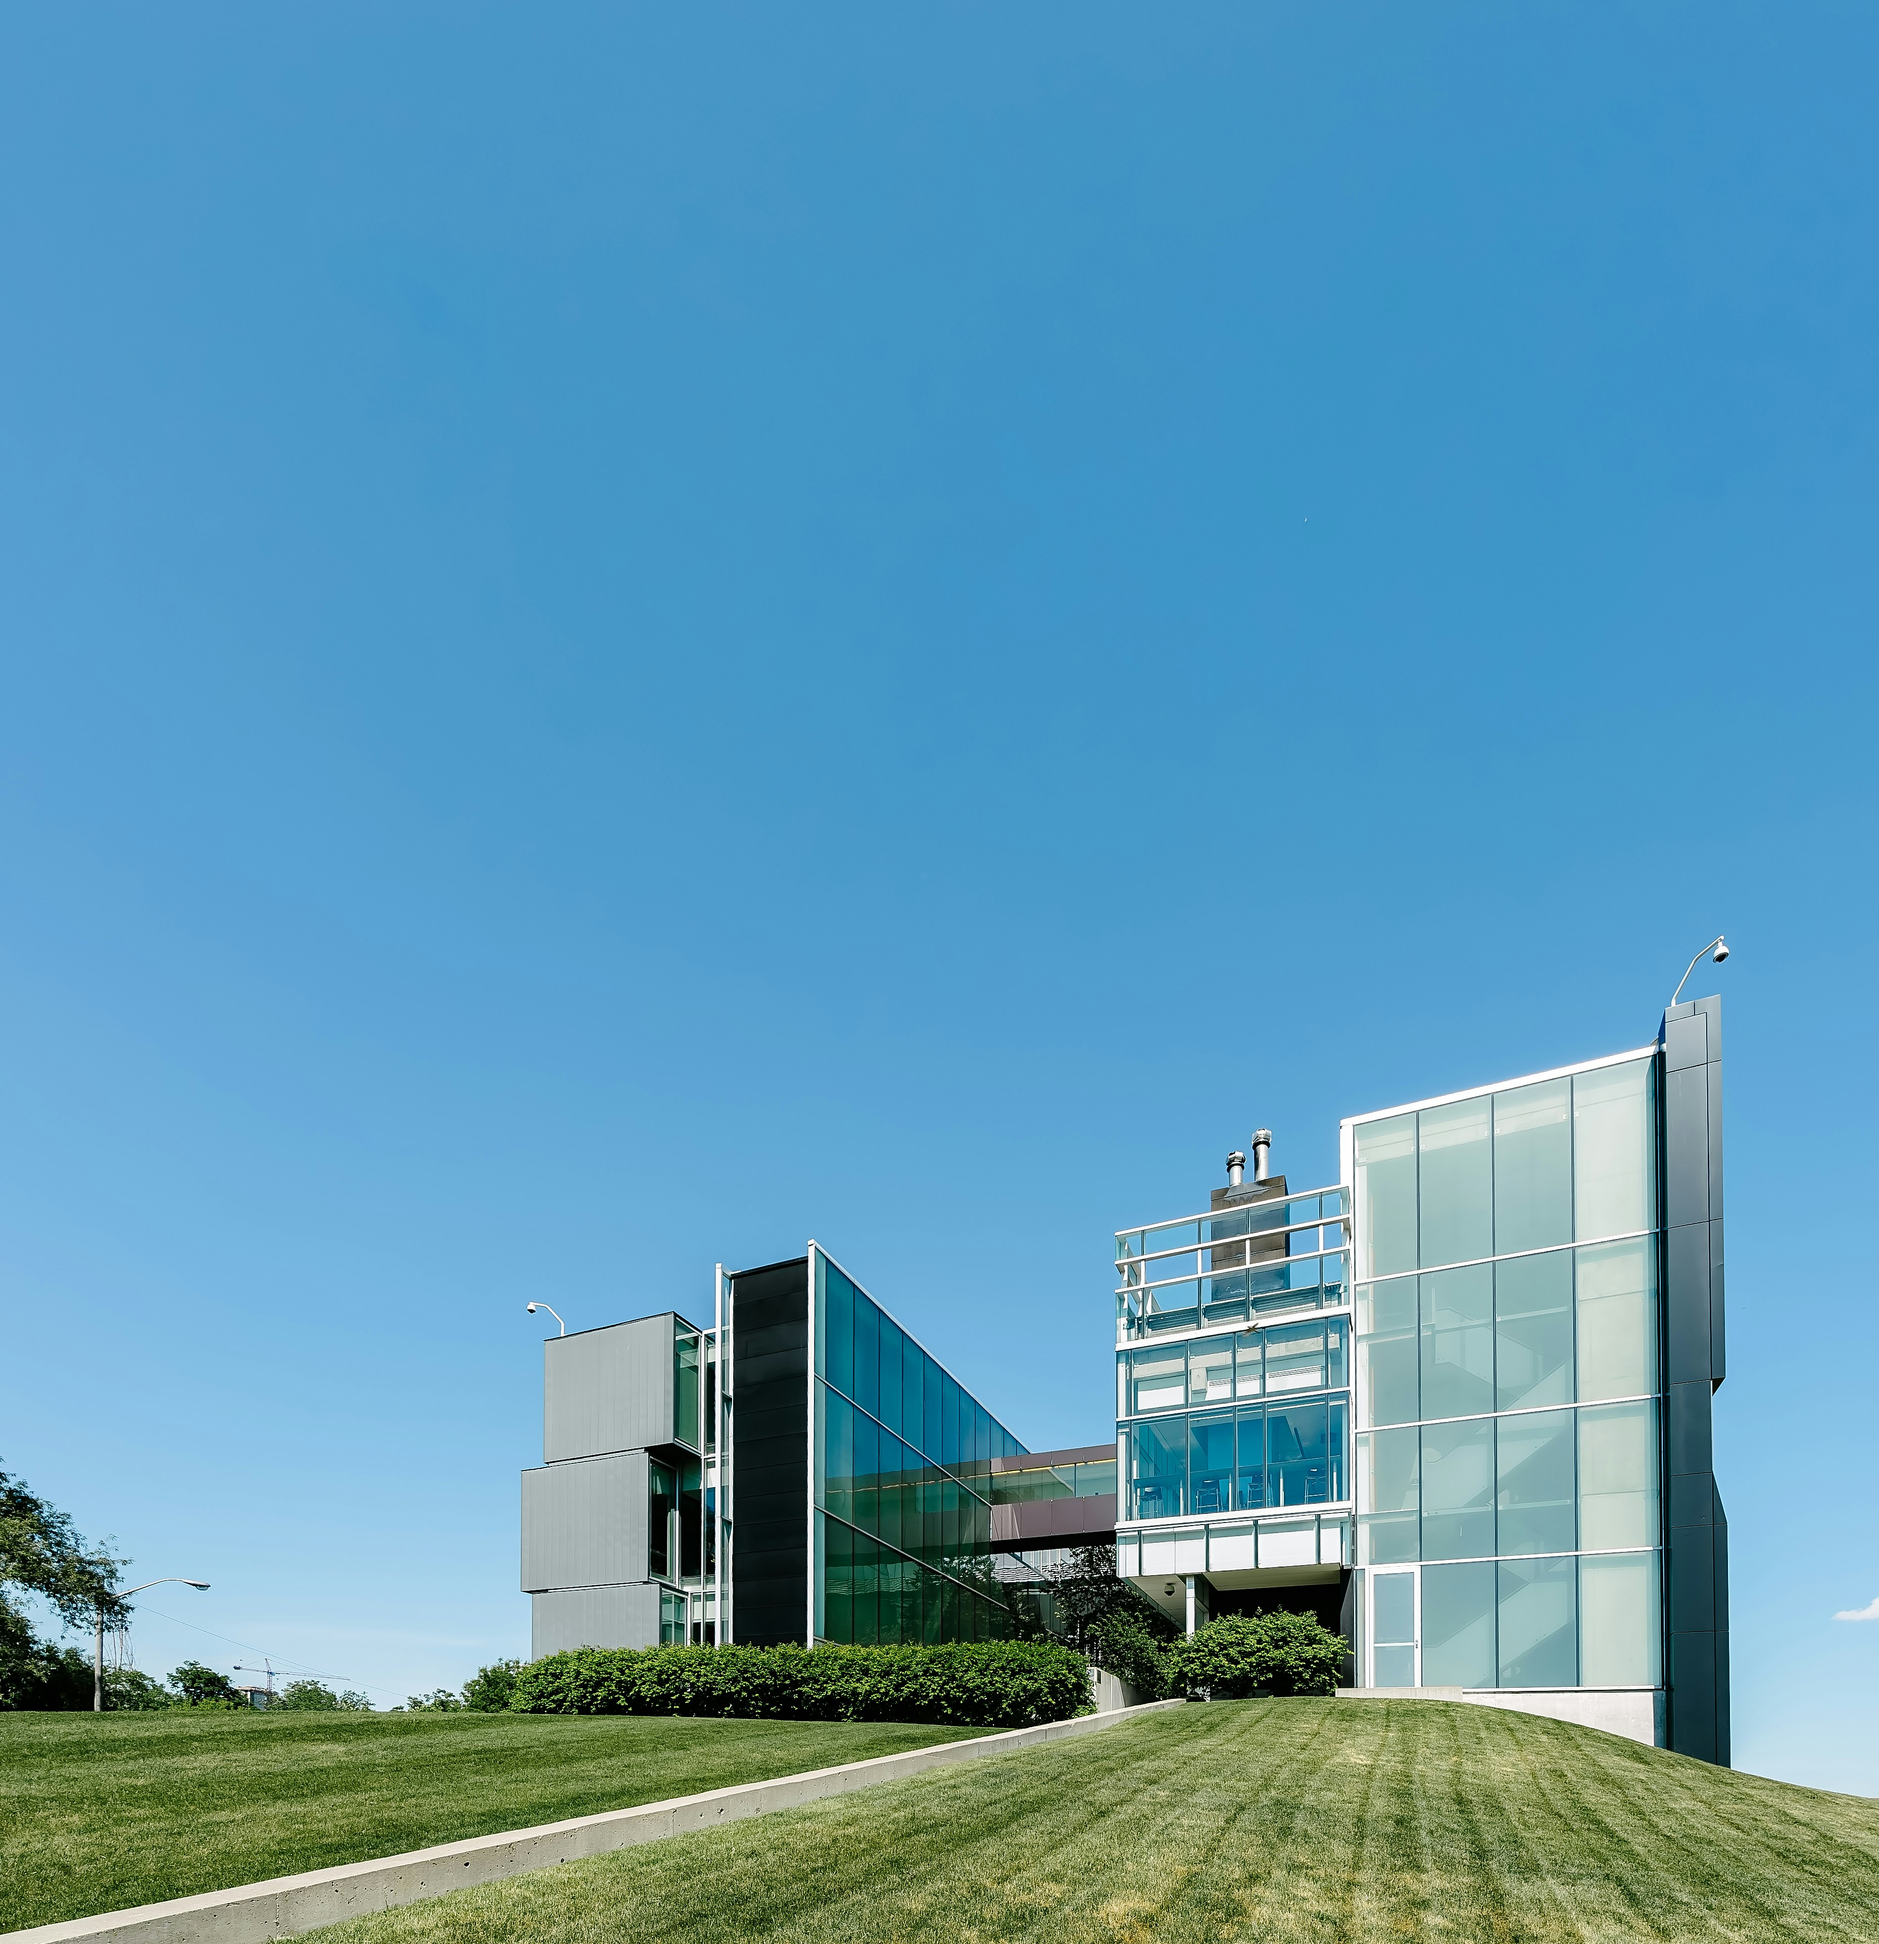
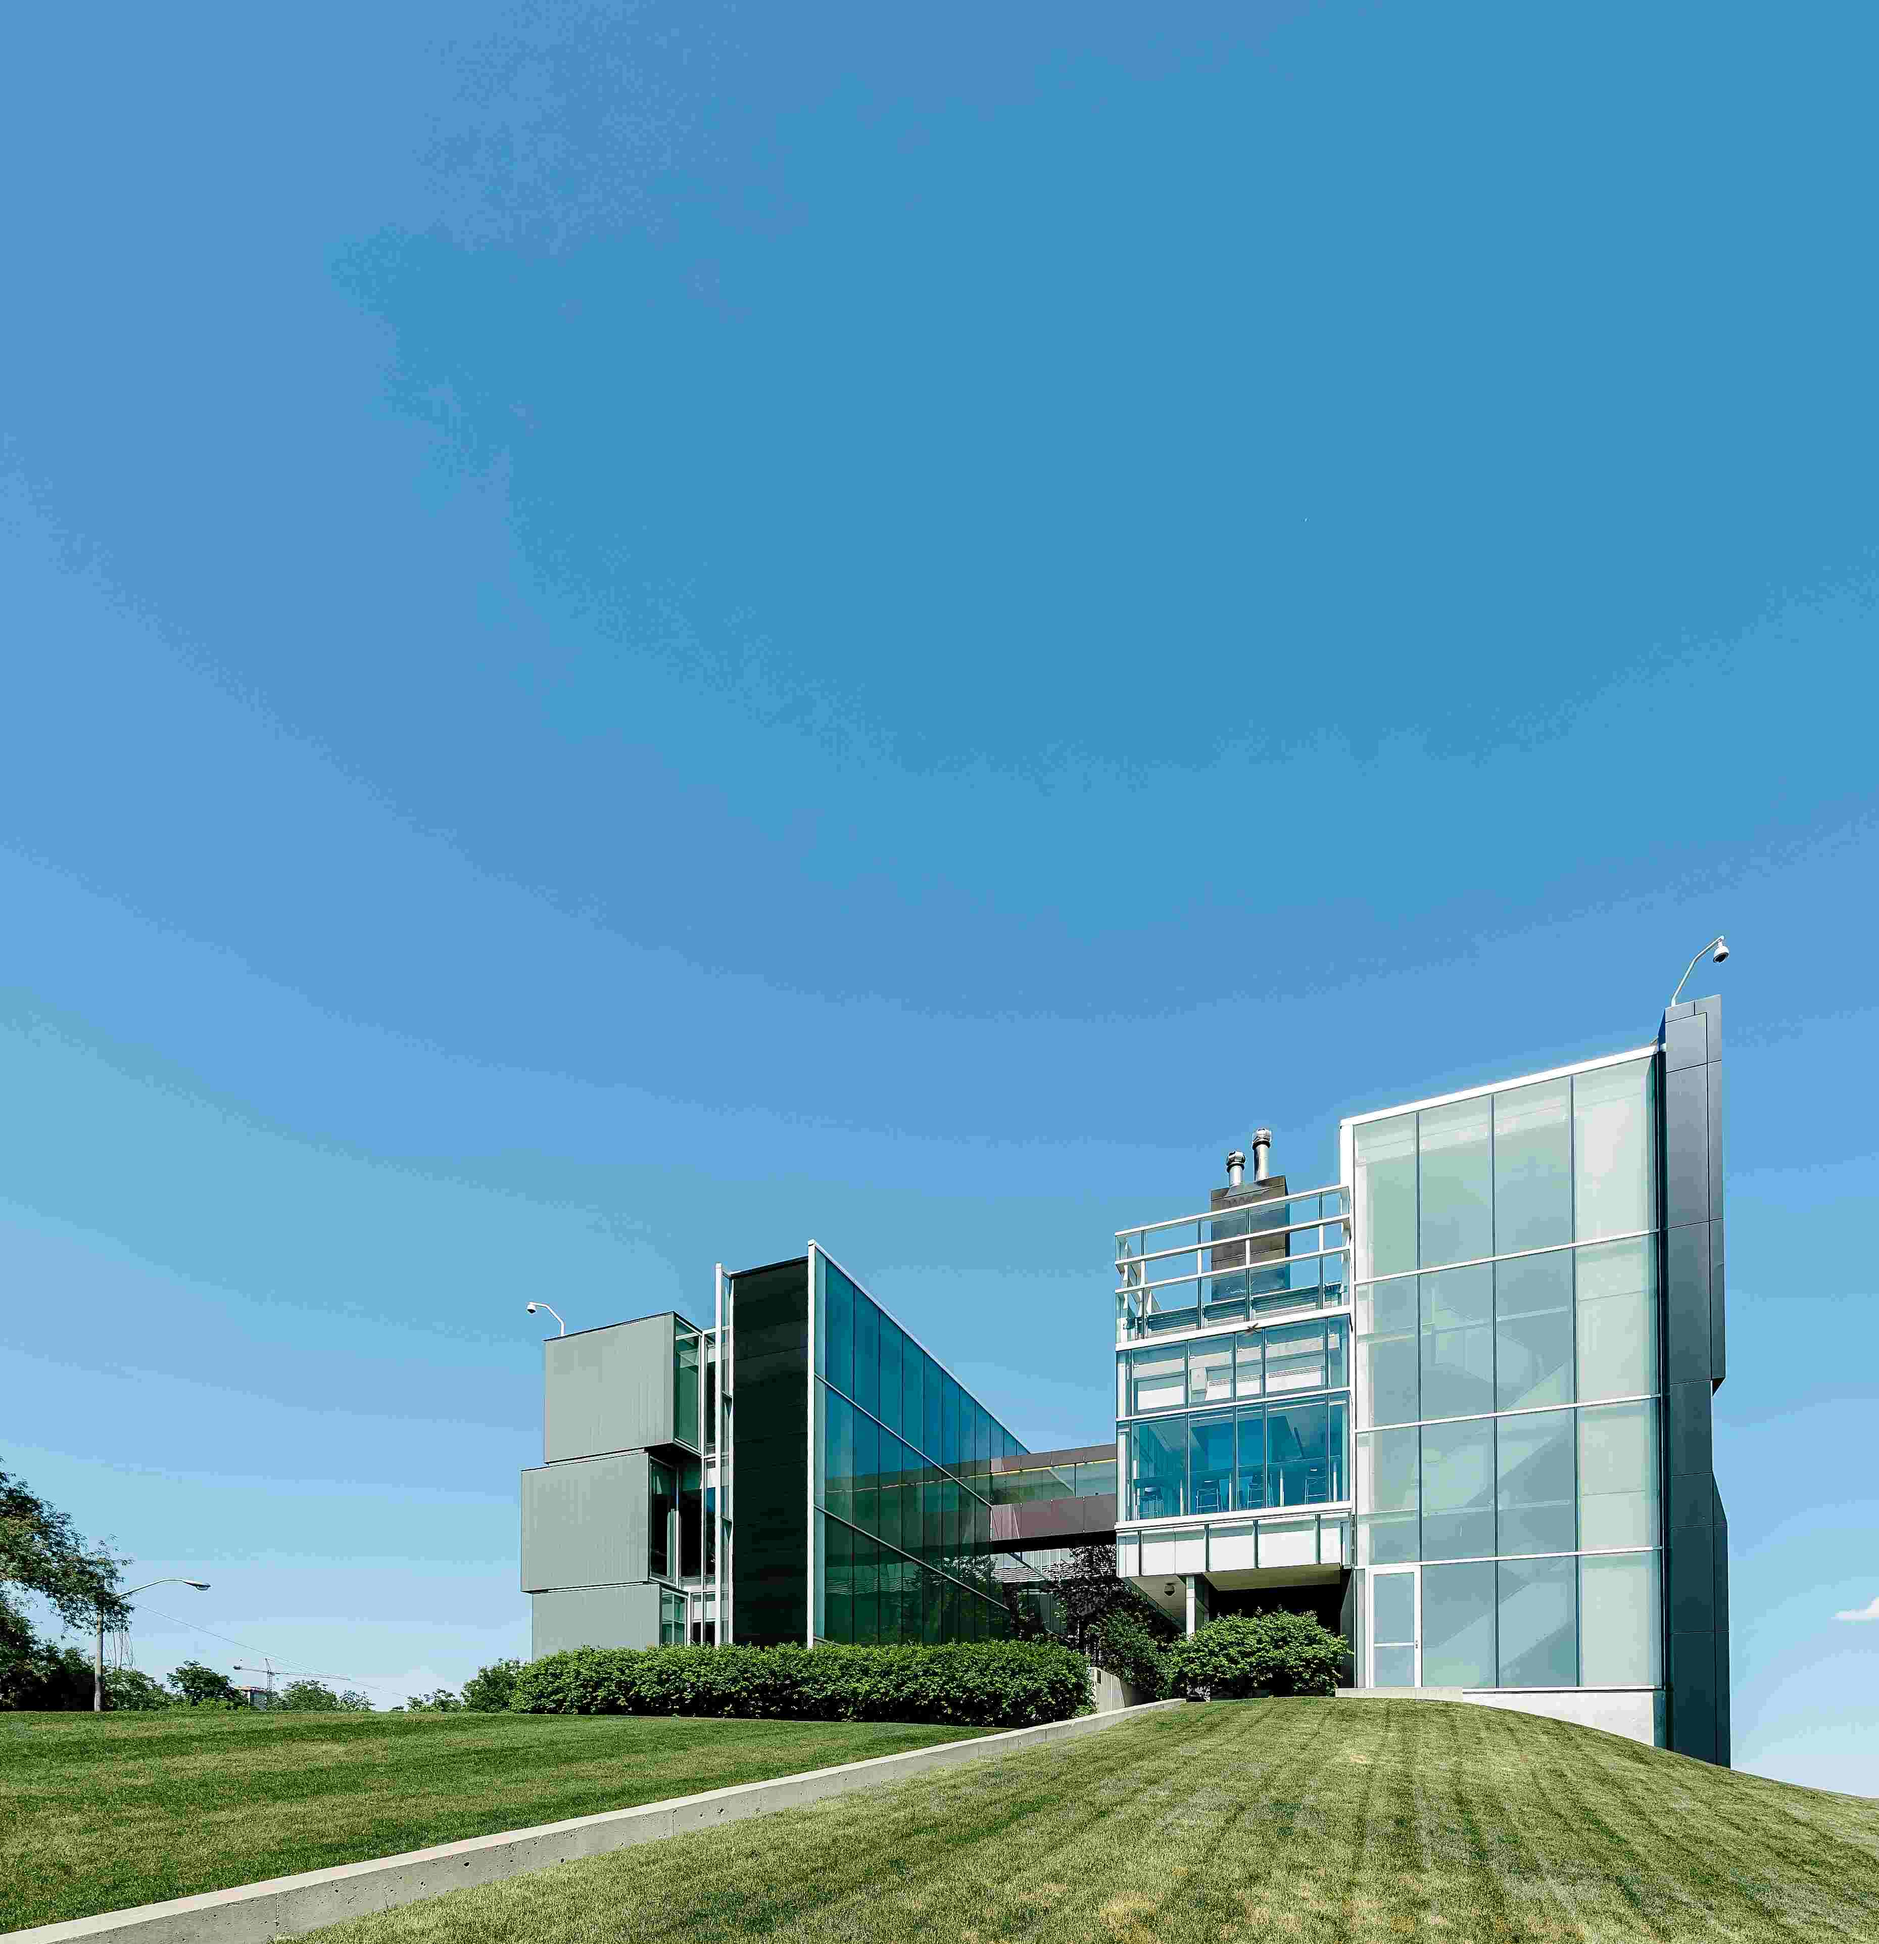
chore: replace heavy images with compressed images

Changed region(s): [[0.0, 0.5927, 1.0, 1.0], [0.8734, 0.5303, 0.9045, 0.5615], [0.4367, 0.7174, 0.4679, 0.7486]]

diff --git a/src/components/Features/index.jsx b/src/components/Features/index.jsx
@@ -2,10 +2,10 @@ import React, { useState, useEffect, useCallback } from "react";
 import { motion, AnimatePresence } from "framer-motion";
 import { container, paragraph } from "../../styles/globals";
 
-import tunnel from "../../assets/Images/tunnel.jpg";
-import train from "../../assets/Images/train.jpg";
-import research from "../../assets/Images/research.jpg";
-import neural from "../../assets/Images/neural.jpg";
+import tunnel from "../../assets/Images/tunnel1.jpg";
+import train from "../../assets/Images/train1.jpg";
+import research from "../../assets/Images/research1.jpg";
+import neural from "../../assets/Images/neural1.jpg";
 
 // Preload images
 const images = {
